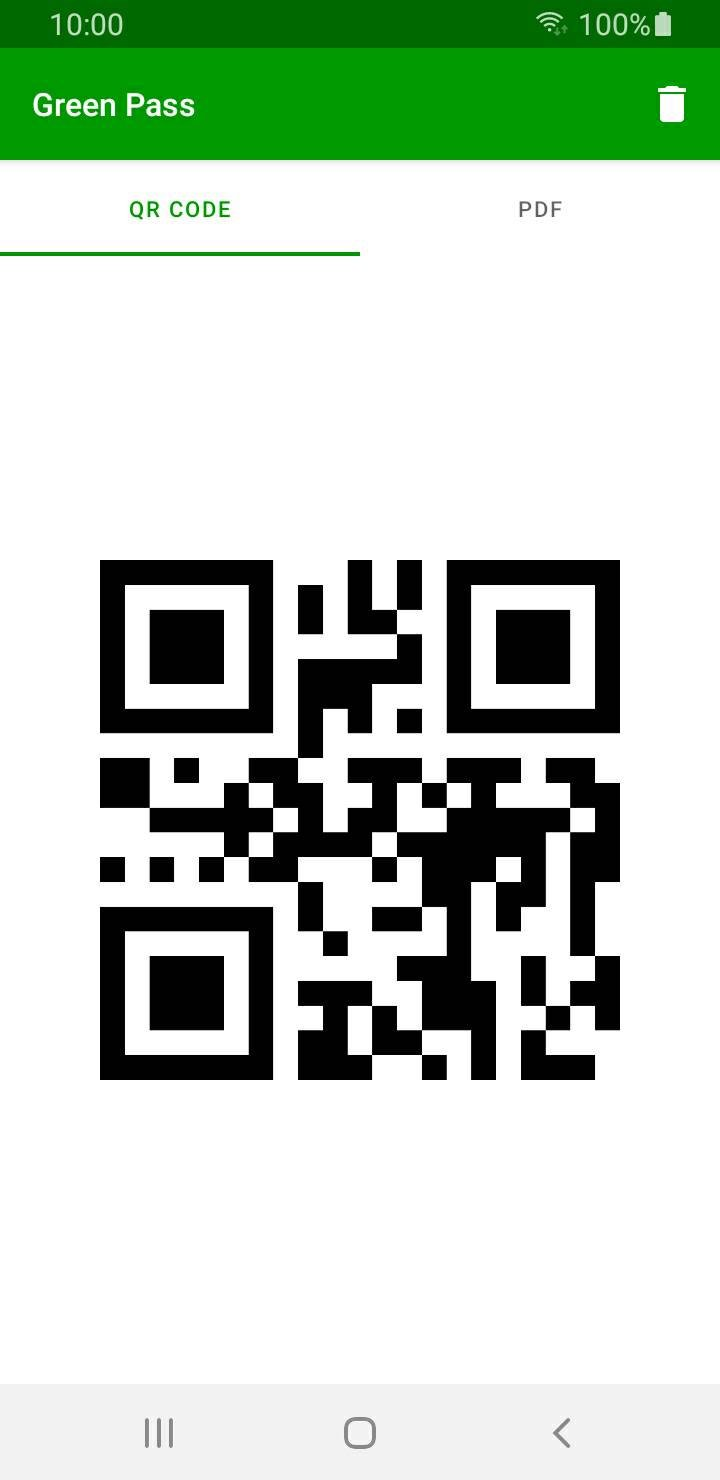
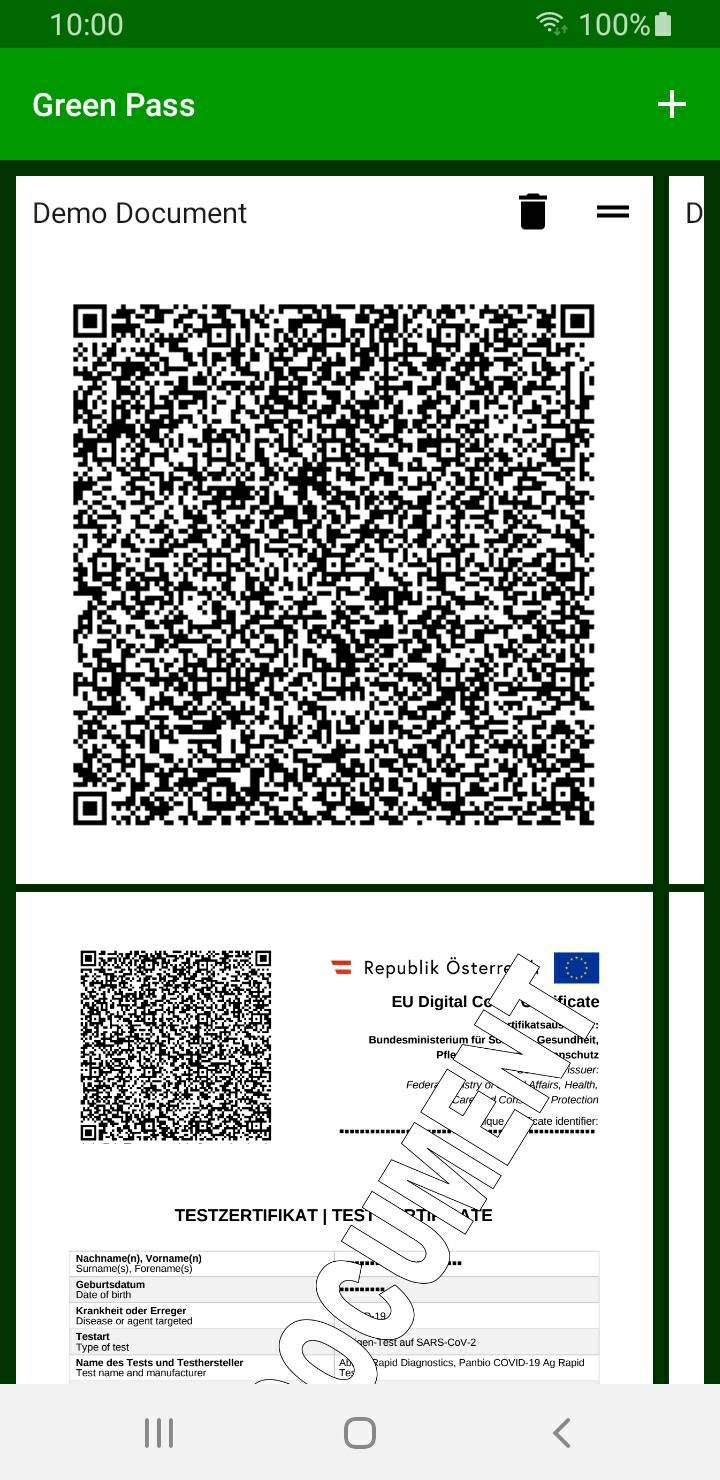
Update screenshots and readme

diff --git a/README.md b/README.md
@@ -1,6 +1,7 @@
-# Green Pass: PDF Reader (unofficial) Android App
-Offers a convenient access to a single PDF document and its QR code like e.g. an EU Digital COVID Certificate.
-Unofficial app that is fully open source. This app is basically a super simple PDF reader with convenient fullscreen QR code rendering (if present in the PDF's 1. page).
+# Green Pass PDF Wallet Android App
+Unofficial app that is fully open source. This app is a simple to use PDF Wallet.
+That means it takes over the task to store and display your most important PDF certificates.
+It includes a convenient fullscreen QR code rendering, if a QR Code is present in the PDF's 1. page.
 
 [![CircleCI](https://circleci.com/gh/michaeltroger/greenpass-android/tree/main.svg?style=svg)](https://circleci.com/gh/michaeltroger/greenpass-android/tree/main)
 
